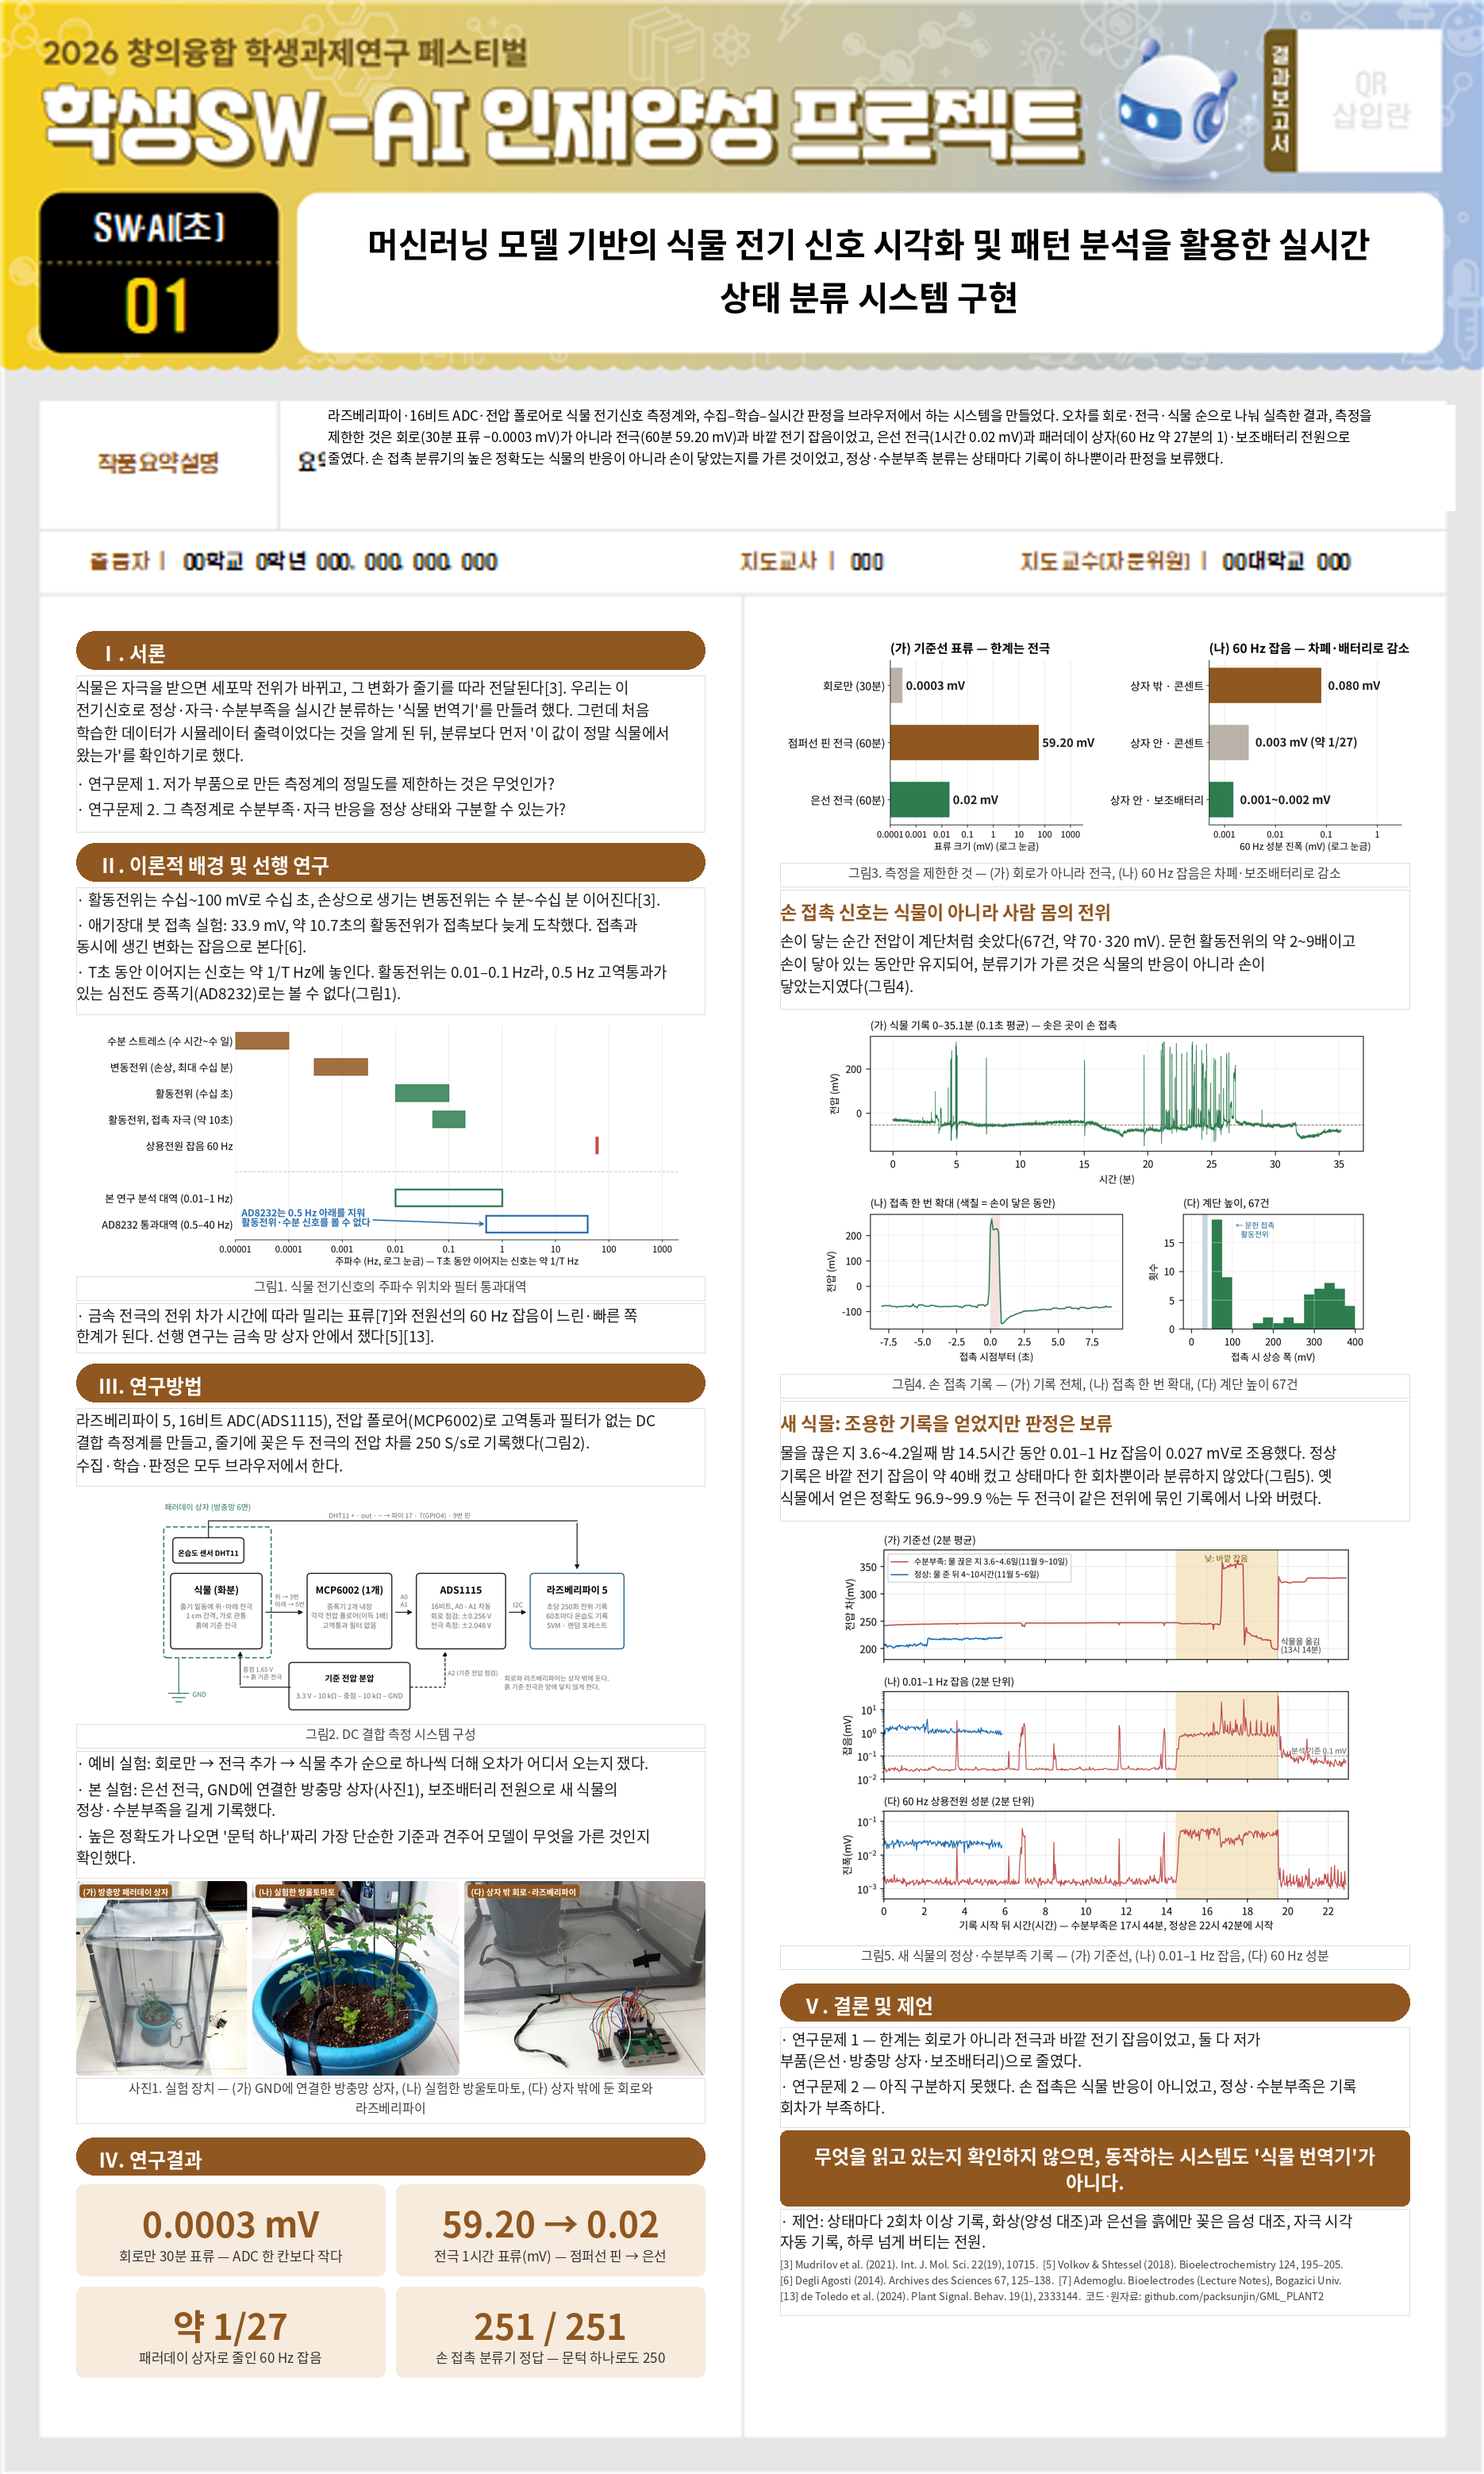
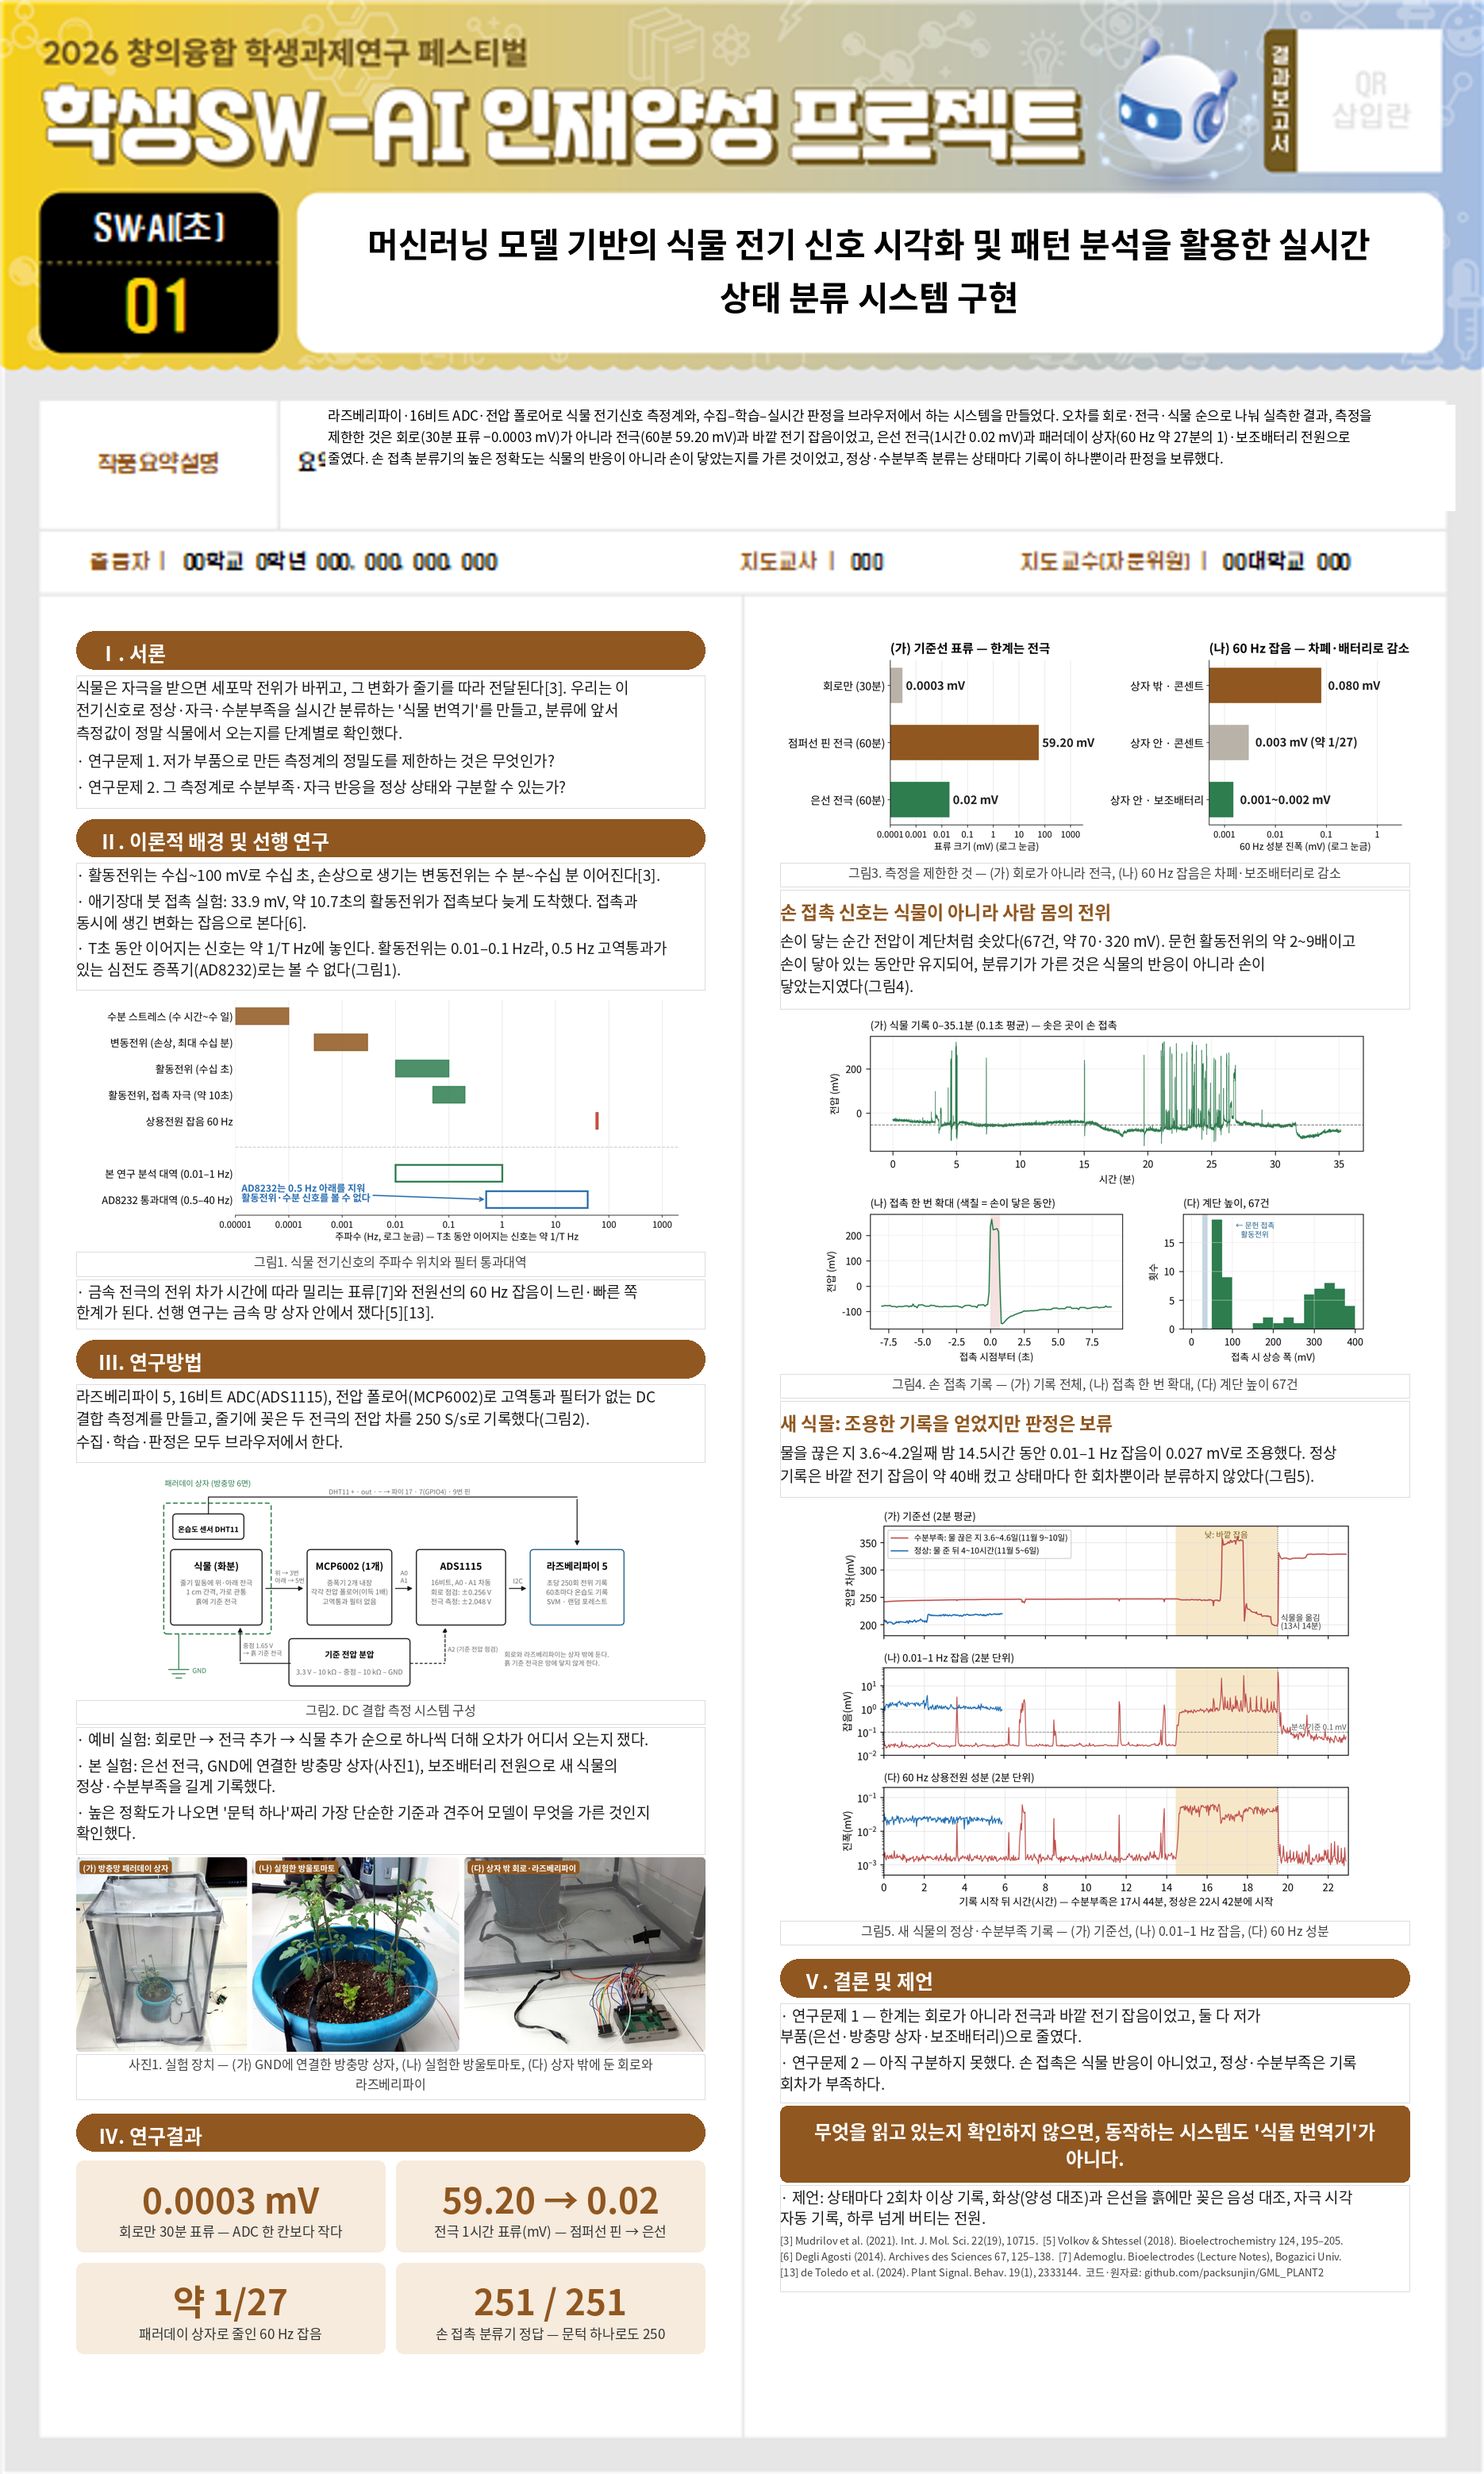
포스터: 버린 정확도(두 전극 같은 전위)·시뮬레이터 경위 문장 뺌
Claude-Session: https://claude.ai/code/session_01JhQkgfdzNkTpKPSBfVdw6o

Changed region(s): [[0.031, 0.2801, 0.4963, 0.9647], [0.5273, 0.5913, 0.9615, 0.9336]]

diff --git a/report/poster_build.py b/report/poster_build.py
@@ -53,8 +53,7 @@ TEXT_FIX = {   # 양식의 자리 글자 → 바꿀 글자
 LEFT = [
     ("bar", "Ⅰ. 서론"),
     ("p", "식물은 자극을 받으면 세포막 전위가 바뀌고, 그 변화가 줄기를 따라 전달된다[3]. 우리는 이 전기신호로 정상·자극·수분부족을 "
-          "실시간 분류하는 '식물 번역기'를 만들려 했다. 그런데 처음 학습한 데이터가 시뮬레이터 출력이었다는 것을 알게 된 뒤, "
-          "분류보다 먼저 '이 값이 정말 식물에서 왔는가'를 확인하기로 했다."),
+          "실시간 분류하는 '식물 번역기'를 만들고, 분류에 앞서 측정값이 정말 식물에서 오는지를 단계별로 확인했다."),
     ("li", "· 연구문제 1. 저가 부품으로 만든 측정계의 정밀도를 제한하는 것은 무엇인가?"),
     ("li", "· 연구문제 2. 그 측정계로 수분부족·자극 반응을 정상 상태와 구분할 수 있는가?"),
     ("bar", "Ⅱ. 이론적 배경 및 선행 연구"),
@@ -85,7 +84,7 @@ RIGHT = [
     ("fig", "FIG_TOUCH.png", 0.88, "그림4. 손 접촉 기록 — (가) 기록 전체, (나) 접촉 한 번 확대, (다) 계단 높이 67건"),
     ("sub", "새 식물: 조용한 기록을 얻었지만 판정은 보류"),
     ("p", "물을 끊은 지 3.6~4.2일째 밤 14.5시간 동안 0.01–1 Hz 잡음이 0.027 mV로 조용했다. 정상 기록은 바깥 전기 잡음이 약 40배 컸고 "
-          "상태마다 한 회차뿐이라 분류하지 않았다(그림5). 옛 식물에서 얻은 정확도 96.9~99.9 %는 두 전극이 같은 전위에 묶인 기록에서 나와 버렸다."),
+          "상태마다 한 회차뿐이라 분류하지 않았다(그림5)."),
     ("fig", "FIG_NEWPLANT.png", 0.84, "그림5. 새 식물의 정상·수분부족 기록 — (가) 기준선, (나) 0.01–1 Hz 잡음, (다) 60 Hz 성분"),
     ("bar", "Ⅴ. 결론 및 제언"),
     ("li", "· 연구문제 1 — 한계는 회로가 아니라 전극과 바깥 전기 잡음이었고, 둘 다 저가 부품(은선·방충망 상자·보조배터리)으로 줄였다."),
